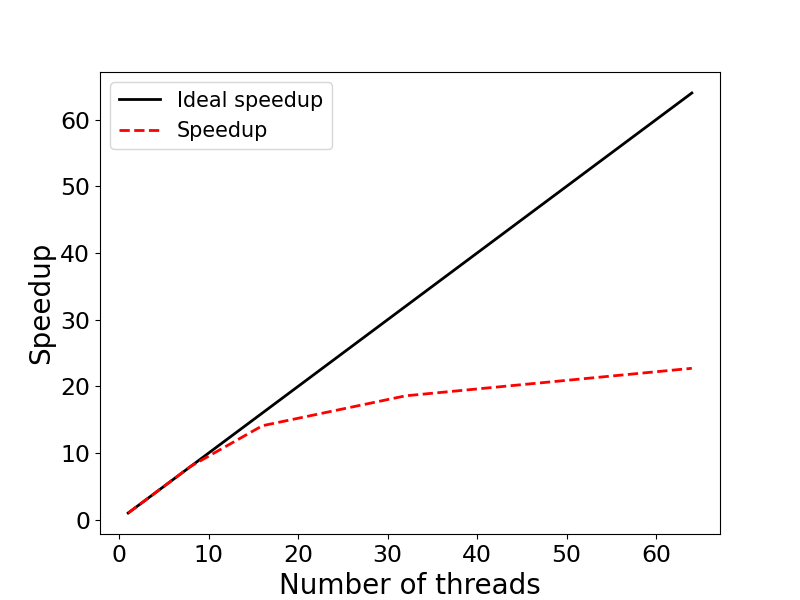
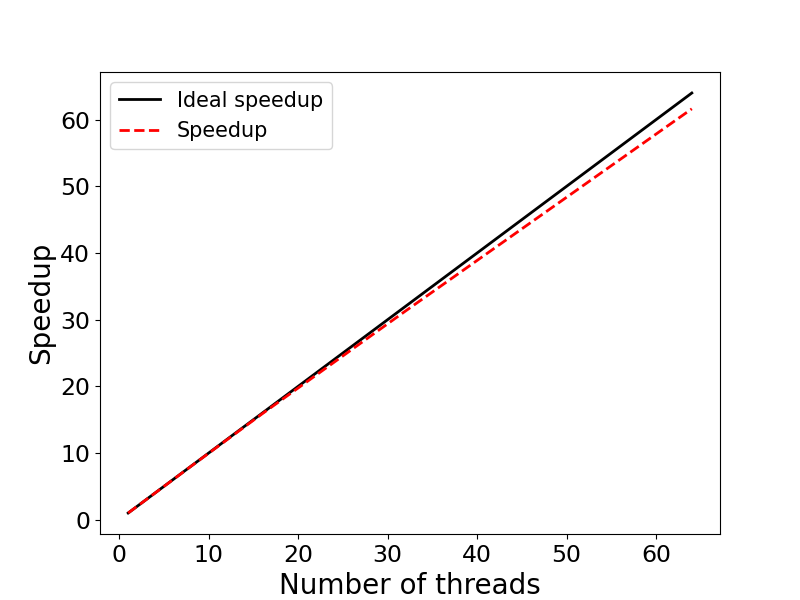
Updated training examples

diff --git a/Training/Advanced_Cluster_Usage/Exercise3/Fortran/speedup.py b/Training/Advanced_Cluster_Usage/Exercise3/Fortran/speedup.py
@@ -1,0 +1,44 @@
+"""
+Program: speedup.py
+         Code generates speedup plot
+         for nthreads = [1, 2, 4 ,8, 16, 32, 64]
+"""
+import numpy as np
+import matplotlib.pyplot as plt
+import matplotlib as mpl
+
+mpl.rcParams['xtick.labelsize'] = 17
+mpl.rcParams['ytick.labelsize'] = 17
+
+with open('scaling_results.txt','r') as f: 
+     nproc,walltime = zip(*[ (int(i.strip().split(' ')[0]),float(i.strip().split(' ')[1])) for i in f.readlines()])
+
+nproc      = list(nproc)
+walltime   = list(walltime)
+
+speedup = []
+efficiency = []
+for i in range(len(walltime)):
+    s = walltime[0] / walltime[i]
+    e = 100 * s / (2**i)
+    speedup.append(s)
+    efficiency.append(e)
+
+# Print out results
+print ("    Nthreads  Walltime  Speedup  Efficiency (%)")
+for i in range(len(walltime)):
+    print ("%8d %11.2f %8.2f %11.2f" % \
+        (nproc[i], walltime[i], speedup[i], efficiency[i]))
+    
+
+fig, ax = plt.subplots(figsize=(8,6))
+p1 = plt.plot(nproc, nproc, linewidth = 2.0, color="black",
+        linestyle='-', label='Ideal speedup')
+p2 = plt.plot(nproc, speedup, linewidth = 2.0, color="red",
+        linestyle='--', label='Speedup')
+plt.xlabel('Number of threads', fontsize=20)
+plt.ylabel('Speedup', fontsize=20)
+plt.legend(fontsize=15,loc=2)
+
+plt.savefig('speedup.png', format='png')
+#plt.show()

diff --git a/Training/Advanced_Cluster_Usage/Exercise3/Fortran/README.md b/Training/Advanced_Cluster_Usage/Exercise3/Fortran/README.md
@@ -3,11 +3,11 @@
 This example illustrates evaluating the speedup of parallel applications. 
 The specific example is an OpenMP (OMP) implementation of a Monte-Carlo algorithm for 
 calculating $\pi$ in parallel. We will run the program on 1, 2, 4, 8, 16, 32, and 64
-OMP threads, calculate the speedup and create a speedup figure.
+OMP threads, calculate the speedup and create a speedup figure. This is a Fortran implementation.
 
 ## Contents:
 
-* <code>omp_pi.c</code>: C source code
+* <code>omp_pi.f90</code>: Fortran source code
 * <code>Makefile</code>: Makefile to compile the code
 * <code>run.sbatch</code>: Batch-job submission script
 * <code>scaling_results.txt</code>: Scaling results / Timing
@@ -19,8 +19,8 @@ OMP threads, calculate the speedup and create a speedup figure.
 The code is compiled with
 
 ```bash
-module load gcc/14.2.0-fasrc01 	# Load required software modules
-make             			    # Compile
+module load gcc/14.2.0-fasrc01	   # Load required software modules
+make             			       # Compile
 ```
 using the `Makefile`:
 
@@ -29,14 +29,14 @@ using the `Makefile`:
 # Makefile
 #=================================================
 CFLAGS   = -c -O2 -fopenmp
-COMPILER = gcc
+COMPILER = gfortran
 PRO         = omp_pi
 OBJECTS     = ${PRO}.o
 
 ${PRO}.x : $(OBJECTS)
 	$(COMPILER) -o ${PRO}.x $(OBJECTS) -fopenmp
 
-%.o : %.c
+%.o : %.f90
 	$(COMPILER) $(CFLAGS) $(<F)
 
 clean :
@@ -44,59 +44,73 @@ clean :
 ```
 This will generate the executable `omp_pi.x`. The C source code is included below:
 
-```c
-/*
-  PROGRAM: omp_pi.c
-  DESCRIPTION: 
-     OpenMP implementation of Monte-Carlo algorithm
-     for calculating PI
-  USAGE: omp_pi.x <number_of_samples> <number_of_threads>
- */
-#include <stdio.h>
-#include <stdlib.h>
-#include <omp.h>
-#include <math.h>
-
-int main (int argc, char *argv[]) {
-  int i, count, samples, nthreads, seed;
-  struct drand48_data drand_buf;
-  double x, y, z;
-  double t0, t1, tf, PI;
+```fortran
+!+++++++++++++++++++++++++++++++++++++++++++++++++++++++++++++++++++++
+! Program: omp_pi.f90
+!          OpenMP implementation of Monte-Carlo algorithm for calculating PI
+!          Translated from omp_pi.c, adapted for gfortran
+!
+! Compile: gfortran -o omp_pi.x omp_pi.f90 -O2 -fopenmp
+! 
+! Run:     ./omp_pi.x <number_of_samples> <number_of_threads>
+!          OMP_NUM_THREADS=<number_of_threads> ./omp_pi.x (optional override)
+!+++++++++++++++++++++++++++++++++++++++++++++++++++++++++++++++++++++
+PROGRAM omp_pi
+  USE OMP_LIB   ! OpenMP library
+  IMPLICIT NONE
   
-  samples  = atoi(argv[1]);       // Number of sumples
-  nthreads = atoi(argv[2]);
-  omp_set_num_threads (nthreads); // Set number of threads
-
-  printf("Number of threads: %2i\n", nthreads);
-
-  t0 = omp_get_wtime();
-  count = 0;
-
-#pragma omp parallel private(i, x, y, z, seed, drand_buf) shared(samples)
-  {
-    seed = 1202107158 + omp_get_thread_num() * 1999;
-    srand48_r (seed, &drand_buf);
+  INTEGER(4) :: i, count, samples, nthreads, tid
+  INTEGER(4) :: seed_size
+  INTEGER(4), ALLOCATABLE :: seed(:)
+  REAL(8)    :: x, y, z
+  REAL(8)    :: t0, t1, tf, PI
+  REAL(8), PARAMETER :: PI_EXACT = 3.14159265358979323846D0
+  CHARACTER(LEN=20) :: arg1, arg2
+  
+  ! Get command-line arguments
+  CALL GET_COMMAND_ARGUMENT(1, arg1)
+  CALL GET_COMMAND_ARGUMENT(2, arg2)
+  READ(arg1, *) samples   ! Number of samples
+  READ(arg2, *) nthreads  ! Number of threads
+  
+  CALL OMP_SET_NUM_THREADS(nthreads)
+  
+  WRITE(*,'(A,I2)') "Number of threads: ", nthreads
+  
+  t0 = OMP_GET_WTIME()
+  count = 0
+  
+  !$OMP PARALLEL PRIVATE(i, x, y, z, tid, seed) SHARED(samples)
+    tid = OMP_GET_THREAD_NUM()
     
-#pragma omp for reduction(+:count)
-    for (i=0; i<samples; i++) {
-      drand48_r (&drand_buf, &x);
-      drand48_r (&drand_buf, &y);
-      z = x*x + y*y;
-      if ( z <= 1.0 ) count++;
-    }
-  }
-
-  t1 = omp_get_wtime();
-  tf = t1 - t0;
+    ! Thread-specific seed for intrinsic RNG
+    CALL RANDOM_SEED(SIZE=seed_size)
+    ALLOCATE(seed(seed_size))
+    seed = 1202107158 + tid * 1999  ! Match C seeding strategy
+    CALL RANDOM_SEED(PUT=seed)
+    DEALLOCATE(seed)
+    
+    !$OMP DO REDUCTION(+:count)
+    DO i = 0, samples - 1           ! Match C loop range (0 to samples-1)
+      CALL RANDOM_NUMBER(x)
+      CALL RANDOM_NUMBER(y)
+      z = x*x + y*y
+      IF (z <= 1.0D0) count = count + 1
+    END DO
+    !$OMP END DO
+  !$OMP END PARALLEL
   
-  // Estimate PI............................................
-  PI =  4.0*count/samples;
-
-  printf("Exact value of PI: %7.5f\n", M_PI);
-  printf("Estimate of PI:    %7.5f\n", PI);
-  printf("Time: %7.2f sec.\n\n", tf);
-  return 0;
-}
+  t1 = OMP_GET_WTIME()
+  tf = t1 - t0
+  
+  ! Estimate PI
+  PI = 4.0D0 * REAL(count, KIND=8) / REAL(samples, KIND=8)
+  
+  WRITE(*,'(A,F7.5)') "Exact value of PI: ", PI_EXACT
+  WRITE(*,'(A,F7.5)') "Estimate of PI:    ", PI
+  WRITE(*,'(A,F7.2,A)') "Time: ", tf, " sec."
+  
+END PROGRAM omp_pi
 ```
 ### Step 2: Create a job submission script 
 
@@ -111,7 +125,7 @@ script to run the program with 1, 2, 4, 8, 16, 32, and 64 OMP threads.
 #SBATCH -t 0-00:30
 #SBATCH -p test
 #SBATCH -N 1
-#SBATCH -c 4
+#SBATCH -c 1
 #SBATCH --mem=4G
 
 PRO=omp_pi
@@ -140,12 +154,12 @@ Upon job completion, the results are recorded in the file `omp_pi.dat`.
 You can check the job status with `sacct`, e.g.,
 
 ```bash
-sacct -j 6282602
+sacct -j 6534305
 JobID           JobName  Partition    Account  AllocCPUS      State ExitCode 
 ------------ ---------- ---------- ---------- ---------- ---------- -------- 
-6282602          omp_pi       test   rc_admin          4  COMPLETED      0:0 
-6282602.bat+      batch              rc_admin          4  COMPLETED      0:0 
-6282602.ext+     extern              rc_admin          4  COMPLETED      0:0
+6534305          omp_pi       test   rc_admin          4  COMPLETED      0:0 
+6534305.bat+      batch              rc_admin          4  COMPLETED      0:0 
+6534305.ext+     extern              rc_admin          4  COMPLETED      0:0 
 ```
 
 and output with. e.g.,
@@ -154,8 +168,8 @@ and output with. e.g.,
 cat omp_pi.dat
 Number of threads:  4
 Exact value of PI: 3.14159
-Estimate of PI:    3.14165
-Time:    2.74 sec.
+Estimate of PI:    3.14158
+Time:    6.18 sec.
 ```
 
 ### Step 5: Speedup figure
@@ -165,13 +179,13 @@ is given below:
 
 ```bash
 cat scaling_results.txt 
- 1 10.92
- 2 5.47
- 4 2.74
- 8 1.37
-16 0.68
-32 0.34
-64 0.17
+ 1 24.67
+ 2 12.39
+ 4 6.23
+ 8 3.13
+16 1.57
+32 0.79
+64 0.40
 ```
 
 This file is used by a Python code, `speedup.py`, to generate the speedup 
@@ -275,11 +289,11 @@ Table with the results is given below:
 ```bash
 cat speedup.out 
     Nthreads  Walltime  Speedup  Efficiency (%)
-       1       10.92     1.00      100.00
-       2        5.47     2.00       99.82
-       4        2.74     3.99       99.64
-       8        1.37     7.97       99.64
-      16        0.68    16.06      100.00
-      32        0.34    32.12      100.00
-      64        0.17    64.24      100.00
+       1       24.67     1.00      100.00
+       2       12.39     1.99       99.56
+       4        6.23     3.96       99.00
+       8        3.13     7.88       98.52
+      16        1.57    15.71       98.21
+      32        0.79    31.23       97.59
+      64        0.40    61.68       96.37
 ```

diff --git a/Training/Advanced_Cluster_Usage/Exercise3/Cpp/README.md b/Training/Advanced_Cluster_Usage/Exercise3/Cpp/README.md
@@ -20,8 +20,8 @@ This is a C++ implementation.
 The code is compiled with
 
 ```bash
-module load intel/24.2.1-fasrc01	# Load required software modules
-make             			        # Compile
+module load gcc/14.2.0-fasrc01	# Load required software modules
+make             			    # Compile
 ```
 using the `Makefile`:
 
@@ -29,21 +29,21 @@ using the `Makefile`:
 #=================================================
 # Makefile
 #=================================================
-CFLAGS   = -c -O2 -qopenmp
-COMPILER = icpx
+CFLAGS   = -c -O2 -fopenmp
+COMPILER = g++
 PRO         = omp_pi
 OBJECTS     = ${PRO}.o
 
 ${PRO}.x : $(OBJECTS)
-	$(COMPILER) -o ${PRO}.x $(OBJECTS) -qopenmp
+	$(COMPILER) -o ${PRO}.x $(OBJECTS) -fopenmp
 
 %.o : %.cpp
 	$(COMPILER) $(CFLAGS) $(<F)
 
 clean :
-	rm -fr *.o *.x *.out *.err *.dat scaling_results.txt
+	rm -fr *.o *.x *.out *.err *.dat
 ```
-This will generate the executable `omp_pi.x`. The C source code is included below:
+This will generate the executable `omp_pi.x`. The C++ source code is included below:
 
 ```c++
 #include <iostream>
@@ -117,16 +117,16 @@ script to run the program with 1, 2, 4, 8, 16, 32, and 64 OMP threads.
 #SBATCH -t 0-00:30
 #SBATCH -p test
 #SBATCH -N 1
-#SBATCH -c 64
+#SBATCH -c 1
 #SBATCH --mem=4G
 
 PRO=omp_pi
 
 # --- Load required software modules ---
-module load intel/24.2.1-fasrc01
+module load gcc/14.2.0-fasrc01
 unset OMP_NUM_THREADS
 
-# --- Run program with 1, 2, 4, 8, 16, and 32 OpenMP threads ---
+# --- Run program with 1, 2, 4, 8, 16, 32, and 64 OpenMP threads ---
 echo "Number of threads: ${i}"
 ./${PRO}.x 100000000 ${SLURM_CPUS_PER_TASK} > ${PRO}.dat
 ```
@@ -170,13 +170,13 @@ For each run, we record the runtime in a file, e.g., `scaling_results.txt`. An e
 
 ```bash
 cat scaling_results.txt 
- 1 12.26
- 2 6.14
- 4 3.07
- 8 1.53
-16 0.87
-32 0.66
-64 0.54
+ 1 19.72
+ 2 9.87
+ 4 4.94
+ 8 2.47
+16 1.24
+32 0.63
+64 0.32
 ```
 
 This file is used by a Python code, `speedup.py`, to generate the 
@@ -184,8 +184,7 @@ speedup figure `speedup.png`:
 
 ![Speedup](speedup.png)
 
-We see that the program displays an good strong scaling up to 16 OMP threads, and
-deteriorates afterwards.
+We see that the program displays an excellent strong scaling up to 64 OMP threads.
 
 Below we include the Python code used to calculate the speedup and generate the speedup
 figure, and also an example submission script to send the figure-generating job to the queue.
@@ -281,11 +280,11 @@ Table with the results is given below:
 ```bash
 cat speedup.out 
     Nthreads  Walltime  Speedup  Efficiency (%)
-       1       12.26     1.00      100.00
-       2        6.14     2.00       99.84
-       4        3.07     3.99       99.84
-       8        1.53     8.01      100.16
-      16        0.87    14.09       88.07
-      32        0.66    18.58       58.05
-      64        0.54    22.70       35.47
+       1       19.72     1.00      100.00
+       2        9.87     2.00       99.90
+       4        4.94     3.99       99.80
+       8        2.47     7.98       99.80
+      16        1.24    15.90       99.40
+      32        0.63    31.30       97.82
+      64        0.32    61.62       96.29    
 ```
